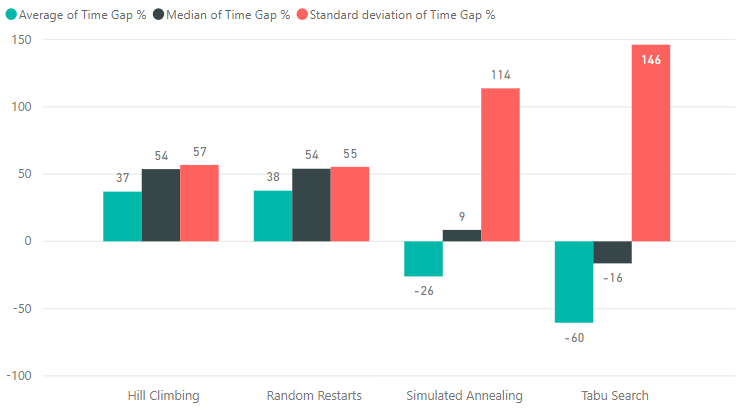
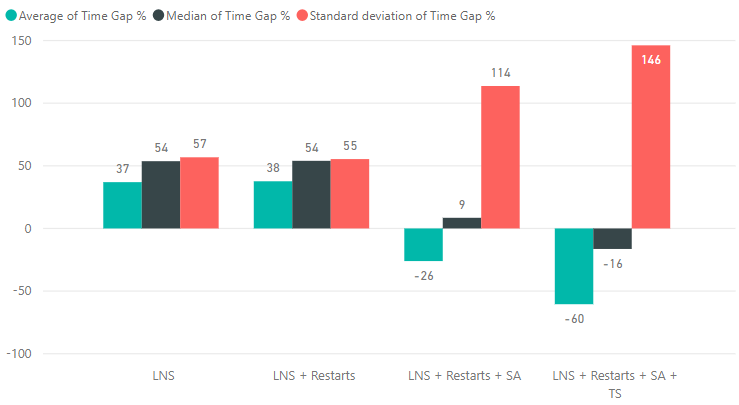
Added explanation for tabu search results and clarified what the definitions of the value and time gaps are

diff --git a/Chapters/5-Results.tex b/Chapters/5-Results.tex
@@ -74,7 +74,7 @@ As described in \cref{subsec:warm_start}, CPLEX can use warm starts to improve i
 
 \section{Metaheuristic Results}
 
-The metaheuristic algorithm uses randomness at many stages of the search and one execution may produce results that are different to another execution on the same data set. To control for this uncertainty, the metaheuristic algorithm was run 3 times on each test problem and the results are aggregated.
+The metaheuristic algorithm uses randomness at many stages of the search and one execution may produce results that are different to another execution on the same data set. To control for this uncertainty, the metaheuristic algorithm was run 3 times on each test problem and the results are aggregated. To give context to the results, the value gap represents how close the solutions produced by the metaheuristic are, where 0\% means that they are equal (the metaheuristic found the optimal) and 10\% means that the metaheuristic was 10\% below the optimal value. For the time gap, 0\% means that the metaheuristic took exactly the same time as the optimal approach, +10\% means that the metaheuristic was 10\% faster than the optimal approach, and -10\% means that the metaheuristic was 10\% slower than the optimal approach.
 
 Before diving into the comparison of adding each metaheuristic, a summary of the results is given first. The best results were found by using a combination of large neighbourhood search, random restarts and simulated annealing. Adding Tabu search gave slightly worse (but still very good) value solutions in relatively more time than the former combination. When using hill climbing, random restarts and simulated annealing, \cref{fig:value_vs_size} shows that even as the size of the problem grows, the value of solutions found is not significantly impacted and remains close to optimal.
 
@@ -221,21 +221,21 @@ Another measure of difficulty is how constrained the problem is. In the ASPP, th
 \begin{figure}[h!]
     \centering
     \includegraphics[width=\textwidth]{Figures/FinalResults/annealing_time_size.png}
-     \caption{Size vs time - negative gap means the optimal method was faster}
+     \caption{Size vs time - positive gap means the metaheuristic method was faster}
      \label{fig:time_vs_size}
 \end{figure}
 
 \begin{figure}[h!]
     \centering
     \includegraphics[width=\textwidth]{Figures/FinalResults/annealing_time_dependencies_stories.png}
-     \caption{Ratio of dependencies to stories vs time - negative gap means the optimal method was faster}
+     \caption{Ratio of dependencies to stories vs time - positive gap means the metaheuristic method was faster}
      \label{fig:time_vs_dependencies_stories}
 \end{figure}
 
 \begin{figure}[h!]
     \centering
     \includegraphics[width=\textwidth]{Figures/FinalResults/annealing_time_stories_sprints.png}
-     \caption{Ratio of stories to sprints vs time - negative gap means the optimal method was faster}
+     \caption{Ratio of stories to sprints vs time - positive gap means the metaheuristic method was faster}
      \label{fig:time_vs_stories_sprints}
 \end{figure}
 
@@ -243,19 +243,21 @@ Another measure of difficulty is how constrained the problem is. In the ASPP, th
 
 \subsection{Comparison of Metaheuristics}
 
-To test how each metaheuristic impacts the value and time of finding approximate solutions, the metaheuristic algorithm was first run using only simple hill climbing. Using this is a baseline, other strategies were cumulatively added in the following order: random restarts, simulated annealing, tabu search. To compare the impact of adding each metaheuristic, \Cref{fig:value_gap_perc_vs_heuristic} and \cref{fig:time_gap_perc_vs_heuristic} show the value gap and time gap (respectively) when adding each metaheuristic. These results are aggregated across problems instances of very different sizes and difficulties and they are shown only to illustrate the general trend - a more detailed analysis of the results is given in \cref{subsec:result_distributions}. The results shows that even the basic hill climbing can get within 1.65\% (average) / 0.95\% (median) of the optimal value but the standard deviation is relatively high, suggesting that it gives inconsistent results. Adding random restarts closes the value gap to 1.34\% (average) / 0.71\% (median) and takes approximately the same amount of time. This is expected because hill climbing and random restarts were given the same number of iterations, but the latter was allowed to restart up to 10 times within that number of iterations if the search stagnated. Adding simulated annealing slightly improved the value gap but the time gap noticeably worsened. However, the median time gap shows that it still performed 9\% faster than the complete algorithm. Adding tabu search slightly increased the value gap and dramatically increased the time gap (this is explored further in the next \cref{subsec:result_distributions}).
+To test how each metaheuristic impacts the value and time of finding approximate solutions, the metaheuristic algorithm was first run using only large neighbourhood search (LNS) where only improving candidate solutions are accepted (also known as hill climbing). Using this is a baseline, other metaheuristic strategies were cumulatively added in the following order: random restarts (restarts), simulated annealing (SA), tabu search (TS). To compare the impact of adding each metaheuristic, \Cref{fig:value_gap_perc_vs_heuristic} and \cref{fig:time_gap_perc_vs_heuristic} show the value gap and time gap (respectively) when adding each metaheuristic. It is important to note that these results are aggregated at a high level across problem instances of very different sizes and difficulties and these results are shown only to illustrate the general trend - a more detailed analysis of the results is given in \cref{subsec:result_distributions}. The results shows that even the basic hill climbing can get within 1.65\% (average) / 0.95\% (median) of the optimal value but the standard deviation is relatively high, suggesting that it gives inconsistent results. Adding random restarts closes the value gap to 1.34\% (average) / 0.71\% (median) and takes approximately the same amount of time. This is expected because hill climbing and random restarts were given the same number of iterations, but the latter was allowed to restart up to 10 times within that number of iterations if the search stagnated. Adding simulated annealing slightly improved the value gap but the time gap noticeably worsened. However, the median time gap shows that it still performed 9\% faster than the complete algorithm. Adding tabu search slightly increased the value gap and dramatically increased the time gap.
+
+The small increase in the value gap when using tabu search could be because the search is getting stalled when the tabu list forbids accepting certain moves. Possible reasons for this could be the definition of the move or the length of the tabu tenure. On reflection, a better definition of a move could have been to have the concept of a departure sprint and a destination sprint. The tabu list would then prevent moving a story from its destination sprint back to its departure sprint whereas the definition used in this thesis was only to prevent a story being moved back to its departure sprint (i.e. it could not be moved from \emph{any} sprint back to its departure sprint while it was tabu). It could also be due to the fact that neighbours are generated stochastically and there may be cases where several successive neighbours are generated but all contain the same banned moves. As long as there is the chance that a move that was already recently found to be tabu can appear in successive neighbours (effectively a 'random choice with replacement' approach), the search may stall. On one hand, this is precisely the job of the tabu list so that the search is encouraged to explore new areas, but ultimately, preventing the search from accepting neighbours costs iterations that may have led to higher-value solutions. The worse time gap could simply be due to the additional overhead of creating moves during destruction, checking moves, and generally managing the tabu list. This overheard is low in small problems but since both the size of the tabu list and the tabu tenure are functions of the size of the problem, this overhead grows as the size of the problem grows (although it does only grow linearly). Additionally, \cref{subsec:result_distributions} will show that most 
 
 \begin{figure}[h!]
     \centering
     \includegraphics[width=\textwidth]{Figures/Metaheuristics/value_gap_perc_vs_heuristic.png}
-    \caption{Value Gap \% vs Heuristic}
+    \caption{Heuristics vs Value Gap \%}
     \label{fig:value_gap_perc_vs_heuristic}
 \end{figure}
 
 \begin{figure}[h!]
     \centering
     \includegraphics[width=\textwidth]{Figures/Metaheuristics/time_gap_perc_vs_heuristic.png}
-    \caption{Time Gap \% vs Heuristic}
+    \caption{Heuristics vs Time Gap \% (positive gap means the metaheuristic method was faster)}
     \label{fig:time_gap_perc_vs_heuristic}
 \end{figure}
 
@@ -268,56 +270,56 @@ To test how each metaheuristic impacts the value and time of finding approximate
 \begin{figure}[!htbp]
     \centering
     \includegraphics[width=\textwidth]{Figures/Metaheuristics/hill_climb_value_gap.png}
-    \caption{Hill Climbing Value Gap \%}
+    \caption{LNS (Hill Climbing) Value Gap \%}
     \label{fig:value_gap_perc_hill_climb}
 \end{figure}
 
 \begin{figure}[!htbp]
     \centering
     \includegraphics[width=\textwidth]{Figures/Metaheuristics/restarts_value_gap.png}
-    \caption{Adding Random Restarts Value Gap \%}
+    \caption{LNS + Random Restarts Value Gap \%}
     \label{fig:value_gap_perc_restarts}
 \end{figure}
 
 \begin{figure}[!htbp]
     \centering
     \includegraphics[width=\textwidth]{Figures/Metaheuristics/annealing_value_gap.png}
-    \caption{Adding Simulated Annealing Value Gap \%}
+    \caption{LNS + Random Restarts + SA Value Gap \%}
     \label{fig:value_gap_perc_annealing}
 \end{figure}
 
 \begin{figure}[!htbp]
     \centering
     \includegraphics[width=\textwidth]{Figures/Metaheuristics/tabu_value_gap.png}
-    \caption{Adding Tabu Search Value Gap \%}
+    \caption{LNS + Random Restarts + SA + TS Value Gap \%}
     \label{fig:value_gap_perc_tabu}
 \end{figure}
 
 \begin{figure}[!htbp]
     \centering
     \includegraphics[width=\textwidth]{Figures/Metaheuristics/hill_climb_time_gap.png}
-    \caption{Hill Climbing Time Gap \%}
+    \caption{LNS (Hill Climbing) Time Gap \% - positive gap means the metaheuristic method was faster}
     \label{fig:time_gap_perc_hill_climb}
 \end{figure}
 
 \begin{figure}[!htbp]
     \centering
     \includegraphics[width=\textwidth]{Figures/Metaheuristics/restarts_time_gap.png}
-    \caption{Adding Random Restarts Time Gap \%}
+    \caption{LNS + Random Restarts Time Gap \% - positive gap means the metaheuristic method was faster}
     \label{fig:time_gap_perc_restarts}
 \end{figure}
 
 \begin{figure}[!htbp]
     \centering
     \includegraphics[width=\textwidth]{Figures/Metaheuristics/annealing_time_gap.png}
-    \caption{Adding Simulated Annealing Time Gap \%}
+    \caption{LNS + Random Restarts + SA Time Gap \% - positive gap means the metaheuristic method was faster}
     \label{fig:time_gap_perc_annealing}
 \end{figure}
 
 \begin{figure}[!htbp]
     \centering
     \includegraphics[width=\textwidth]{Figures/Metaheuristics/tabu_time_gap.png}
-    \caption{Adding Tabu Search Time Gap \%}
+    \caption{LNS + Random Restarts + SA + TS Time Gap \% - positive gap means the metaheuristic method was faster}
     \label{fig:time_gap_perc_tabu}
 \end{figure}
 
@@ -325,7 +327,7 @@ To test how each metaheuristic impacts the value and time of finding approximate
 
 \subsection{Value and Time Gaps}
 
-Even though the search can be seen to perform well overall, it is also important to understand how and why the local search struggles and why the outliers occur. \textbf{N.B.} all figures shown in this section are using the combination of hill climbing, random restarts and simulated annealing but not tabu search (since this combination gave the best results).
+Even though the search can be seen to perform well overall, it is also important to understand how and why this metaheuristic approach struggles and why the outliers occur. Take note that all figures shown in this subsection are using the combination of LNS (hill climbing), random restarts and simulated annealing since this gave the best results, and they do not include tabu search. As a reminder, the value gap represents how close the solutions produced by the metaheuristic are, where 0\% means that they are equal (the metaheuristic found the optimal) and 10\% means that the metaheuristic was 10\% below the optimal value. For the time gap, 0\% means that the metaheuristic took exactly the same time as the optimal approach, +10\% means that the metaheuristic was 10\% faster than the optimal approach, and -10\% means that the metaheuristic was 10\% slower than the optimal approach.
 
 \Cref{fig:value_gap_vs_size} shows that the value gap is much smaller or finds the optimal solution in small problems and increases in larger problems (fluctuating around 0.74\% in these results). However, it's clear from the time gap in \cref{fig:time_gap_vs_size} that the local search is usually slower than the complete algorithm in small problems but is faster in large problems. Naturally, if the solution space is small, Branch and Bound can traverse most of it in a very short time whereas a local search with a fixed number of iterations may 'waste' some time in these cases.
 
